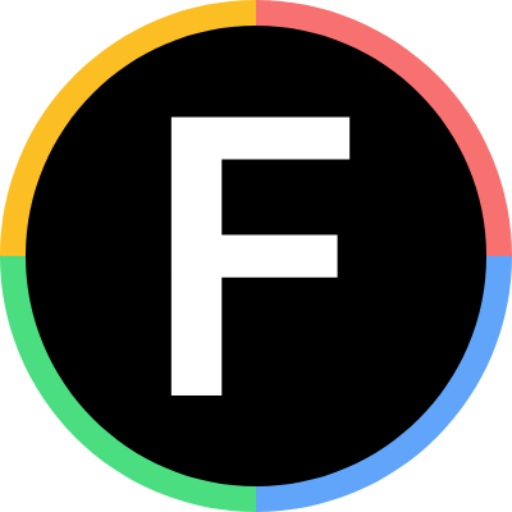
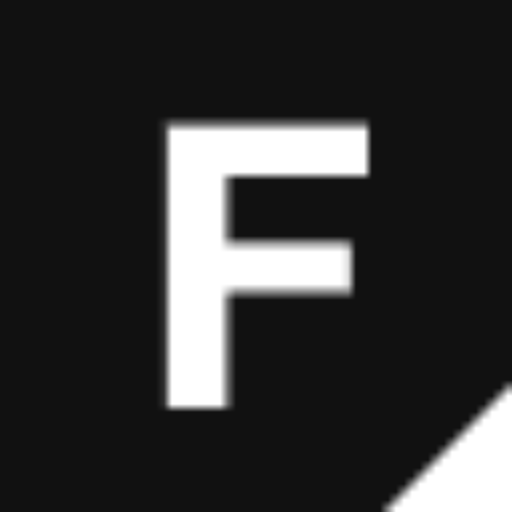
feat: 网站logo替换

diff --git a/components/rsc/logo/index.tsx b/components/rsc/logo/index.tsx
@@ -1,26 +1,11 @@
 import Link from 'next/link';
 
-import { WEBSITE } from '@/constants';
-import { cn } from '@/utils';
+import { IconLogo } from '../icons';
 
 export default function Logo() {
   return (
     <Link href="/" className="flex items-center">
-      <button
-        className={cn(
-          'relative flex h-14 w-14 flex-col items-center justify-center',
-          'rounded-full  text-3xl font-black',
-          'bg-white dark:bg-gray-900',
-          'text-gray-900 dark:text-white',
-          'after:animate-spin-slow after:absolute after:inset-0 after:rounded-full ',
-          'after:border-2 after:border-l-green-400 after:border-r-red-400 after:border-t-blue-400 after:border-b-amber-400',
-          'focus:outline-none focus:border-none', // 解决点击按钮后出现蓝色边框的问题
-        )}
-      >
-        F
-      </button>
-
-      <h2 className="ml-4 text-2xl font-semibold">{WEBSITE}</h2>
+      <IconLogo className="w-12 h-12" />
     </Link>
   );
 }

diff --git a/components/rsc/icons/icon-logo.tsx b/components/rsc/icons/icon-logo.tsx
@@ -1,0 +1,25 @@
+import { SVGProps } from 'react';
+
+export const IconLogo = (props: SVGProps<SVGSVGElement>) => (
+  <svg
+    xmlns="http://www.w3.org/2000/svg"
+    width="1em"
+    height="1em"
+    fill="none"
+    viewBox="0 0 64 64"
+    {...props}
+  >
+    <g clipPath="url(#a)">
+      <path fill="hsl(var(--primary))" d="M0 0h64v48L48 64H0V0Z" />
+      <path
+        fill="hsl(var(--primary-foreground))"
+        d="M20.928 51V15.624h25.104v6.384H28.416v8.352h15.456v6.144H28.416V51h-7.488Z"
+      />
+    </g>
+    <defs>
+      <clipPath id="a">
+        <path fill="hsl(var(--primary-foreground))" d="M0 0h64v64H0z" />
+      </clipPath>
+    </defs>
+  </svg>
+);

diff --git a/components/rsc/icons/index.ts b/components/rsc/icons/index.ts
@@ -2,6 +2,14 @@ import { IconBilibili } from './icon-bilibili';
 import { IconEmail } from './icon-email';
 import { IconGithub } from './icon-github';
 import { IconJuejin } from './icon-juejin';
+import { IconLogo } from './icon-logo';
 import { IconWechat } from './icon-wechat';
 
-export { IconBilibili, IconEmail, IconGithub, IconJuejin, IconWechat };
+export {
+  IconBilibili,
+  IconEmail,
+  IconGithub,
+  IconJuejin,
+  IconWechat,
+  IconLogo,
+};
